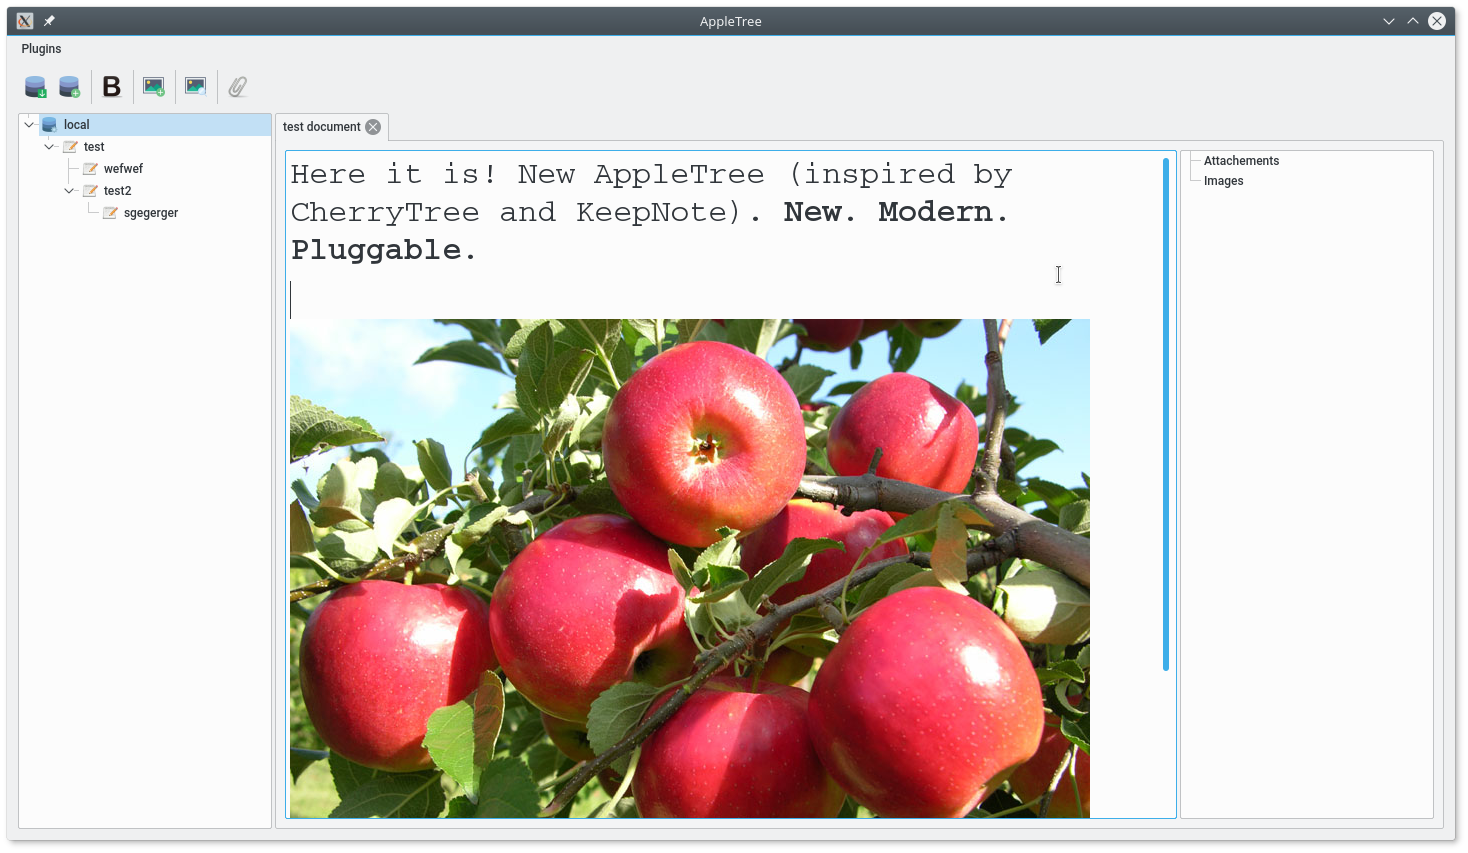
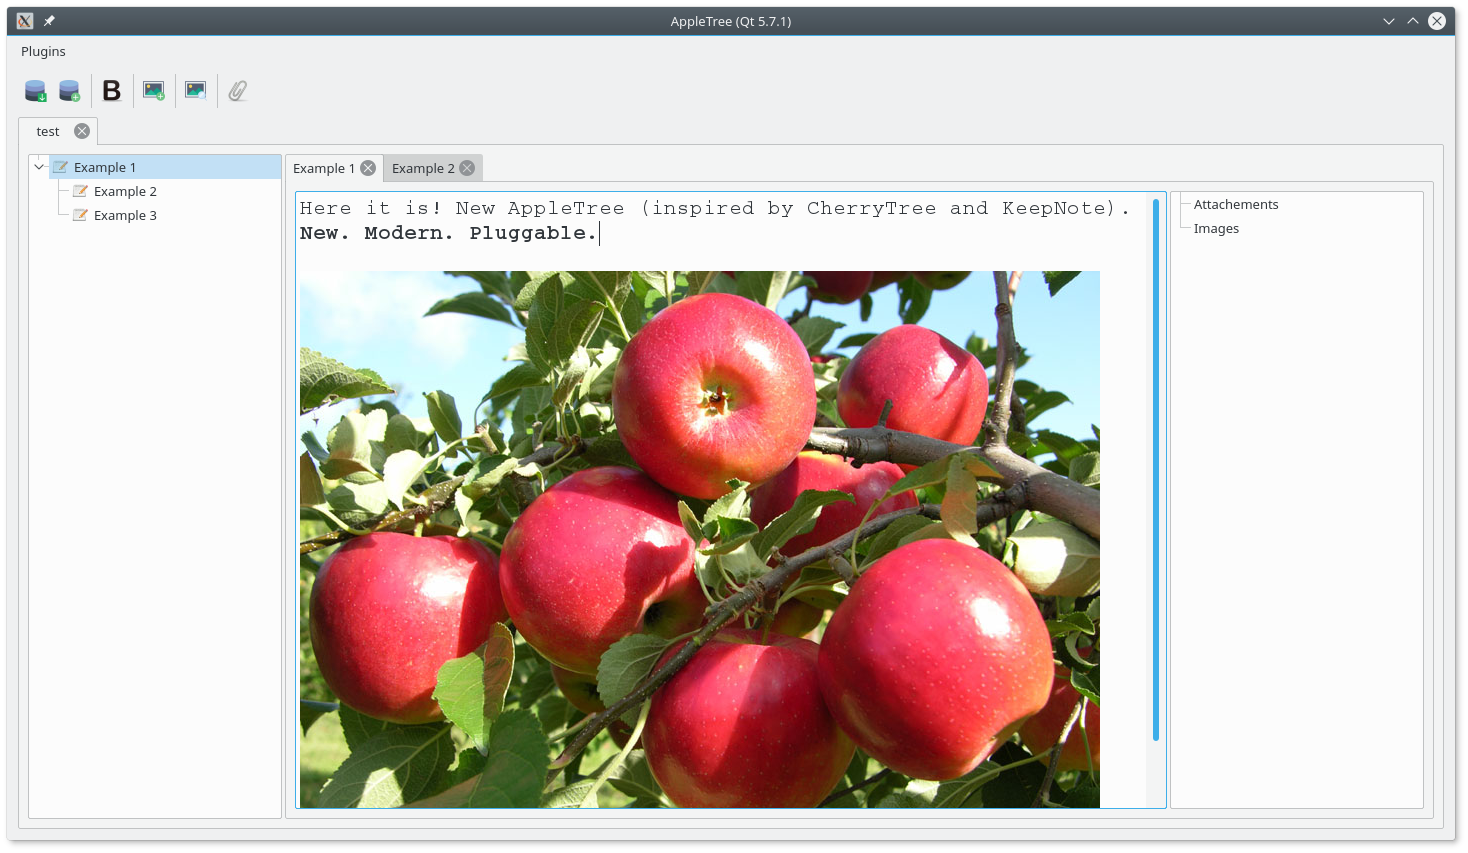
- new screenshot after new feature: projects

diff --git a/appletree/gui/project.py b/appletree/gui/project.py
@@ -148,7 +148,6 @@ class ProjectView(Qt.QWidget):
         if not docid:
             return
         docname = item.text(0)
-        print("??? open:", docid, docname)
         self.open(docid, docname)
 
     def on_tree_item_changed(self, item):

diff --git a/appletree/gui/mw.py b/appletree/gui/mw.py
@@ -203,4 +203,3 @@ class AppleTreeMainWindow(Qt.QMainWindow):
             return None
 
         projectv.on_toolbar_save()
-        
